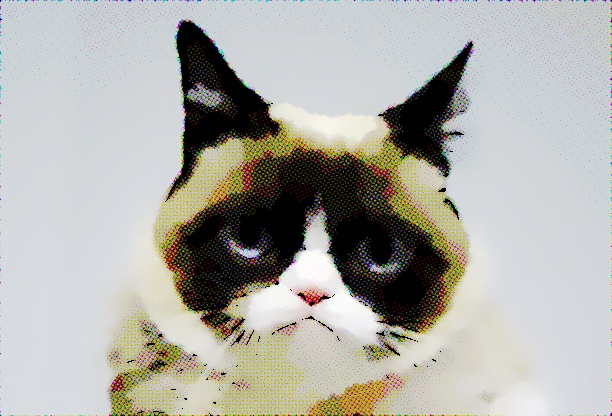
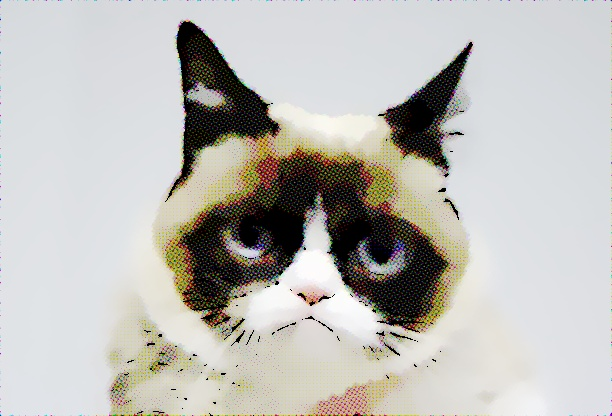
Add gamma correction for halftoning

diff --git a/src/main.rs b/src/main.rs
@@ -134,6 +134,9 @@ fn anisotropic_blur(Lab(lab_image): &Lab) -> Result<Lab, Box<dyn Error>> {
 /// Applies an halftone color effect.
 #[cfg(feature = "halftone")]
 fn halftone(Bgr(image): Bgr) -> Result<Bgr, Box<dyn Error>> {
+    // Apply gamma correction to brighten up the image.
+    const GAMMA: f32 = 1.0 / 1.3;
+
     use opencv::core::{merge, CV_8UC1};
     use opencv::imgproc::{
         circle, median_blur, resize, FILLED, INTER_CUBIC, INTER_NEAREST, LINE_AA,
@@ -183,7 +186,7 @@ fn halftone(Bgr(image): Bgr) -> Result<Bgr, Box<dyn Error>> {
             }
 
             let pixel: f32 = *resized.at_2d::<u8>(x as _, y as _).unwrap() as _;
-            let intensity = pixel / 255.0;
+            let intensity = (pixel / 255.0).powf(GAMMA);
             let radius = intensity * 7.5;
             debug_assert!(radius >= 0.0 && radius <= 255.0);
 
